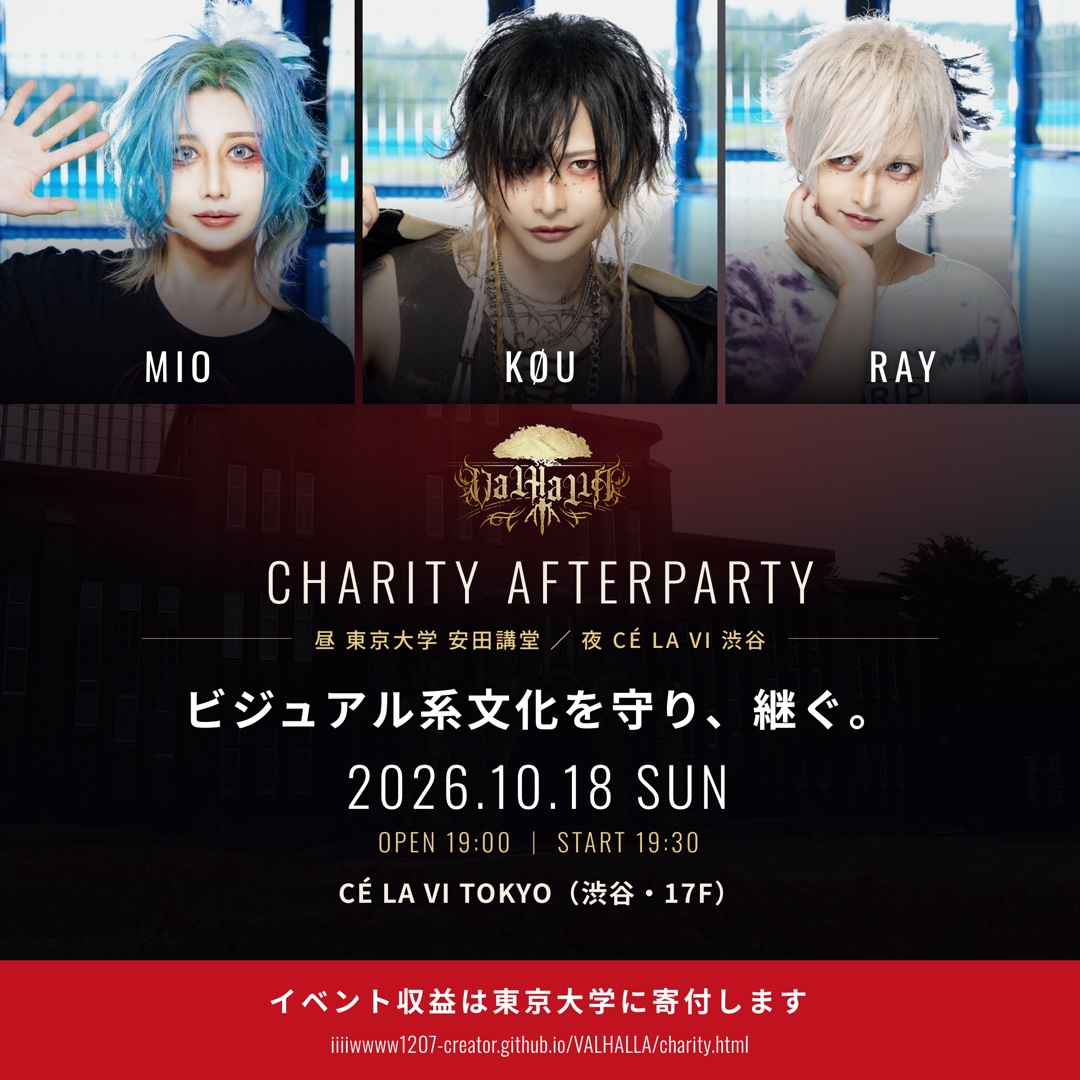
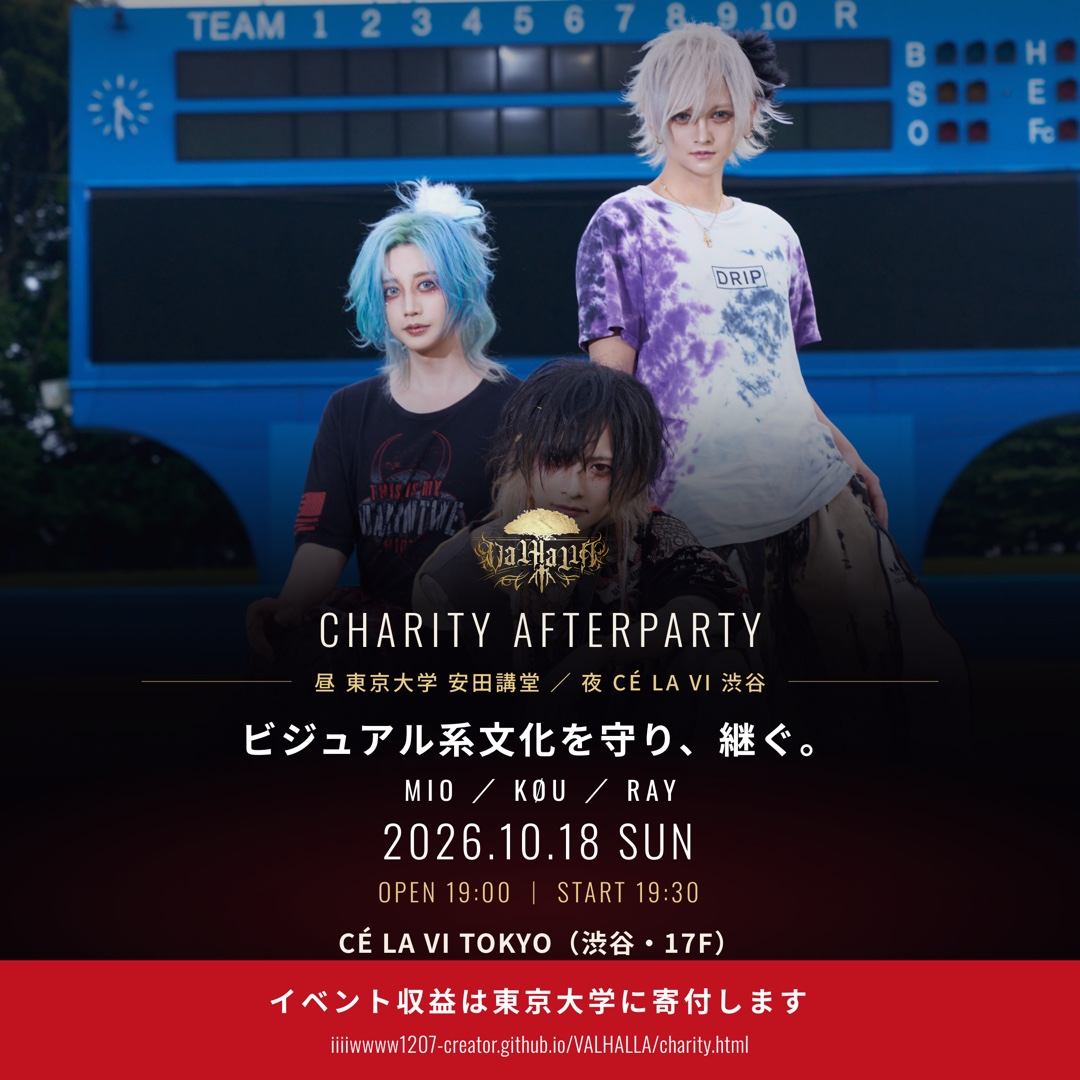
SNS1枚目のビジュアルを3人の集合写真フルブリードに変更
kazuma 指示。個別3枚の並び → group_field.jpg（3人の集合写真）へ。
kazuma が選択したファイルは既存 group_field.jpg とハッシュ一致を確認済み。

縦位置の写真なので横長の枠に収めると良さが死ぬため、
写真を全面に敷き、下半分にスクリムを掛けて文字を載せる構成に変更した。

- .cast（3枚並び）を廃止し、出演者名は「MIO ／ KØU ／ RAY」の1行に集約
- 文字ブロックは下寄せ（.head に margin-top:auto、.cta の auto を解除）
- 3人が縦に散った構図のため、サイズごとに background-position を個別調整
  feed45 = center 145% / square = center 88% / story = 150%幅・center 100%
  （3人の顔がロゴや見出しに隠れない位置を実測して決定）
- 文字量を圧縮して写真の見える範囲を確保

※ A4版はキャスト横一列（昼フライヤーの構図移植）のまま維持している。

diff --git a/flyer-sns.html b/flyer-sns.html
@@ -50,7 +50,26 @@
   .board.detail45 .veil,.board.detail11 .veil{
       background:linear-gradient(180deg,rgba(5,3,7,.72) 0%,rgba(5,3,7,.80) 26%,rgba(5,3,7,.90) 52%,rgba(5,3,7,.95) 100%)}
 
-  /* ── キャスト3枚（名前は写真の下部にオーバーレイして省スペース） ── */
+  /* ── 1枚目：集合写真をフルブリードで敷き、下半分にスクリムで文字を載せる ── */
+  .board.feed45 .bg,.board.square .bg,.board.story .bg{
+      background-image:url('assets/charity/group_field.jpg');
+      background-size:cover;opacity:1;filter:none}
+  .board.feed45 .bg{background-position:center 145%}
+  .board.square .bg{background-position:center 88%}
+  .board.story  .bg{background-size:150% auto;background-position:center 100%}
+  .board.feed45 .veil,.board.square .veil,.board.story .veil{
+      background:linear-gradient(180deg,
+        rgba(5,3,7,.36) 0%, rgba(5,3,7,.06) 18%, rgba(5,3,7,.22) 36%,
+        rgba(5,3,7,.66) 48%, rgba(5,3,7,.92) 56%, rgba(5,3,7,.985) 64%, #050307 74%)}
+  .board.feed45 .glow,.board.square .glow,.board.story .glow{
+      background:radial-gradient(ellipse 84% 22% at 50% 84%, rgba(176,20,28,.26), transparent 74%)}
+  /* 文字は下寄せ（写真の上側を空けて3人を見せる） */
+  .board.feed45 .head,.board.square .head,.board.story .head{margin-top:auto}
+  .board.feed45 .cta,.board.square .cta,.board.story .cta{margin-top:0}
+  .cast-line{font-family:'Oswald',sans-serif;font-weight:400;letter-spacing:.22em;
+    text-indent:.22em;color:#fff;line-height:1}
+
+  /* ── （2枚目では未使用）キャスト3枚並び ── */
   .cast{display:grid;grid-template-columns:repeat(3,1fr);gap:8px;flex:none}
   .cast .c{position:relative;overflow:hidden;background:#000}
   .cast img{position:absolute;left:50%;transform:translateX(-50%);
@@ -152,41 +171,39 @@
      サイズ別の寸法
      ========================================================== */
   /* ---- 1080x1350（Instagram フィード・Xタイムラインで最も大きく出る） ---- */
-  .feed45 .cast{height:522px}
-  .feed45 .cast .nm{font-size:44px;bottom:24px}
-  .feed45 .head{padding:22px 70px 0}
-  .feed45 .head .mark{width:230px;margin-bottom:20px}
-  .feed45 .head h1{font-size:60px}
-  .feed45 .head .ruled{margin-top:16px}
-  .feed45 .head .ruled span{font-size:24px}
-  .feed45 .tagline{margin-top:26px;font-size:50px}
-  .feed45 .when{margin-top:24px}
-  .feed45 .when .d{font-size:62px}
-  .feed45 .when .t{margin-top:14px;font-size:28px}
-  .feed45 .when .v{margin-top:14px;font-size:30px}
+  .feed45 .head{padding:0 70px 0}
+  .feed45 .head .mark{width:168px;margin-bottom:14px}
+  .feed45 .head h1{font-size:47px}
+  .feed45 .head .ruled{margin-top:13px}
+  .feed45 .head .ruled span{font-size:21px}
+  .feed45 .tagline{margin-top:18px;font-size:41px}
+  .feed45 .cast-line{margin-top:15px;font-size:29px}
+  .feed45 .when{margin-top:18px}
+  .feed45 .when .d{font-size:50px}
+  .feed45 .when .t{margin-top:11px;font-size:26px}
+  .feed45 .when .v{margin-top:11px;font-size:28px}
   .feed45 .price{margin:18px 60px 0;padding:15px 0}
   .feed45 .price .n{font-size:26px}
   .feed45 .price .p{margin-top:12px;font-size:44px}
   .feed45 .price .l{margin-top:10px;font-size:21px}
   .feed45 .price .feat .n::after{font-size:17px;padding:3px 8px}
-  .feed45 .donate{margin-top:22px;padding:0 70px}
-  .feed45 .donate b{font-size:31px}
-  .feed45 .donate span{margin-top:10px;font-size:22px}
+  .feed45 .donate{margin-top:16px;padding:0 70px}
+  .feed45 .donate b{font-size:28px}
+  .feed45 .donate span{margin-top:8px;font-size:21px;padding-bottom:16px}
   .feed45 .cta{padding:24px 40px 26px}
   .feed45 .cta b{font-size:32px}
   .feed45 .cta u{margin-top:10px;font-size:23px}
 
   /* ---- 1080x1080（グリッド・X） ---- */
-  .square .cast{height:404px}
-  .square .cast .nm{font-size:38px;bottom:20px}
-  .square .head{padding:18px 70px 0}
-  .square .head .mark{width:196px;margin-bottom:16px}
-  .square .head h1{font-size:52px}
+  .square .head{padding:0 70px 0}
+  .square .head .mark{width:150px;margin-bottom:12px}
+  .square .head h1{font-size:42px}
   .square .head .ruled{margin-top:16px}
   .square .head .ruled span{font-size:21px}
-  .square .tagline{margin-top:22px;font-size:44px}
-  .square .when{margin-top:20px}
-  .square .when .d{font-size:54px}
+  .square .tagline{margin-top:15px;font-size:37px}
+  .square .cast-line{margin-top:13px;font-size:26px}
+  .square .when{margin-top:15px}
+  .square .when .d{font-size:44px}
   .square .when .t{margin-top:11px;font-size:25px}
   .square .when .v{margin-top:11px;font-size:26px}
   .square .price{margin:14px 60px 0;padding:13px 0}
@@ -194,7 +211,7 @@
   .square .price .p{margin-top:9px;font-size:37px}
   .square .price .l{margin-top:8px;font-size:19px}
   .square .price .feat .n::after{font-size:15px;padding:2px 7px}
-  .square .donate{margin-top:18px;padding:0 60px}
+  .square .donate{margin-top:14px;padding:0 60px;padding-bottom:14px}
   .square .donate b{font-size:27px}
   .square .donate span{margin-top:9px;font-size:20px}
   .square .cta{padding:19px 40px 21px}
@@ -248,17 +265,15 @@
   /* ---- 1080x1920（ストーリー／リール）
          上下 240px は端末UIに隠れやすいのでセーフエリアを空ける ---- */
   .story{padding:120px 0 50px}
-  .story .bg{background-position:center 46%}
-  .story .cast{height:686px}
-  .story .cast .nm{font-size:52px;bottom:28px}
-  .story .head{padding:36px 80px 0}
-  .story .head .mark{width:290px;margin-bottom:28px}
-  .story .head h1{font-size:74px}
+  .story .head{padding:0 80px 0}
+  .story .head .mark{width:220px;margin-bottom:20px}
+  .story .head h1{font-size:60px}
   .story .head .ruled{margin-top:28px}
   .story .head .ruled span{font-size:27px}
-  .story .tagline{margin-top:30px;font-size:54px}
-  .story .when{margin-top:28px}
-  .story .when .d{font-size:84px}
+  .story .tagline{margin-top:24px;font-size:48px}
+  .story .cast-line{margin-top:18px;font-size:33px}
+  .story .when{margin-top:22px}
+  .story .when .d{font-size:66px}
   .story .when .t{margin-top:18px;font-size:33px}
   .story .when .v{margin-top:18px;font-size:35px}
   .story .price{margin:28px 70px 0;padding:22px 0}
@@ -266,7 +281,7 @@
   .story .price .p{margin-top:14px;font-size:52px}
   .story .price .l{margin-top:12px;font-size:24px}
   .story .price .feat .n::after{font-size:19px;padding:4px 10px}
-  .story .donate{margin-top:24px;padding:0 80px}
+  .story .donate{margin-top:20px;padding:0 80px;padding-bottom:18px}
   .story .donate b{font-size:38px}
   .story .donate span{margin-top:14px;font-size:26px}
   .story .cta{margin-bottom:0;padding:32px 40px 34px}
@@ -279,16 +294,12 @@
 <!-- ============ 1080 x 1350 ／ Instagram フィード・X ============ -->
 <section class="board feed45">
   <div class="bg"></div><div class="veil"></div><div class="glow"></div>
-  <div class="cast">
-    <div class="c"><img src="assets/charity/mio.jpg" alt="MIO"><div class="nm">MIO</div></div>
-    <div class="c"><img src="assets/charity/kou.jpg" alt="KØU"><div class="nm">KØU</div></div>
-    <div class="c"><img src="assets/charity/rei.jpg" alt="RAY"><div class="nm">RAY</div></div>
-  </div>
   <div class="head">
     <img class="mark" src="assets/charity/logo_gold.webp" alt="VALHALLA">
     <h1>Charity Afterparty</h1>
     <div class="ruled"><span class="jp">昼 東京大学 安田講堂 ／ 夜 CÉ LA VI 渋谷</span></div>
     <p class="tagline">ビジュアル系文化を守り、継ぐ。</p>
+    <p class="cast-line">MIO ／ KØU ／ RAY</p>
   </div>
   <div class="when">
     <div class="d">2026.10.18 SUN</div>
@@ -308,16 +319,12 @@
 <!-- ============ 1080 x 1080 ／ グリッド・X ============ -->
 <section class="board square">
   <div class="bg"></div><div class="veil"></div><div class="glow"></div>
-  <div class="cast">
-    <div class="c"><img src="assets/charity/mio.jpg" alt="MIO"><div class="nm">MIO</div></div>
-    <div class="c"><img src="assets/charity/kou.jpg" alt="KØU"><div class="nm">KØU</div></div>
-    <div class="c"><img src="assets/charity/rei.jpg" alt="RAY"><div class="nm">RAY</div></div>
-  </div>
   <div class="head">
     <img class="mark" src="assets/charity/logo_gold.webp" alt="VALHALLA">
     <h1>Charity Afterparty</h1>
     <div class="ruled"><span class="jp">昼 東京大学 安田講堂 ／ 夜 CÉ LA VI 渋谷</span></div>
     <p class="tagline">ビジュアル系文化を守り、継ぐ。</p>
+    <p class="cast-line">MIO ／ KØU ／ RAY</p>
   </div>
   <div class="when">
     <div class="d">2026.10.18 SUN</div>
@@ -333,16 +340,12 @@
 <!-- ============ 1080 x 1920 ／ ストーリー・リール ============ -->
 <section class="board story">
   <div class="bg"></div><div class="veil"></div><div class="glow"></div>
-  <div class="cast">
-    <div class="c"><img src="assets/charity/mio.jpg" alt="MIO"><div class="nm">MIO</div></div>
-    <div class="c"><img src="assets/charity/kou.jpg" alt="KØU"><div class="nm">KØU</div></div>
-    <div class="c"><img src="assets/charity/rei.jpg" alt="RAY"><div class="nm">RAY</div></div>
-  </div>
   <div class="head">
     <img class="mark" src="assets/charity/logo_gold.webp" alt="VALHALLA">
     <h1>Charity Afterparty</h1>
     <div class="ruled"><span class="jp">昼 東京大学 安田講堂 ／ 夜 CÉ LA VI 渋谷</span></div>
     <p class="tagline">ビジュアル系文化を守り、継ぐ。</p>
+    <p class="cast-line">MIO ／ KØU ／ RAY</p>
   </div>
   <div class="when">
     <div class="d">2026.10.18 SUN</div>

diff --git a/docs/celavi-afterparty.md b/docs/celavi-afterparty.md
@@ -86,6 +86,10 @@
     - `assets/charity/flyer/sns/afterparty_story_1080x1920.jpg` … ストーリー／リール（上下220pxはUIに隠れる前提のセーフエリア確保済み）
     - **SNSフライヤーは必ず2枚組で出す**（kazuma 指示 2026-08-27）
       - 1枚目＝掴み。**金額は載せない**（2枚目とダブるため）。顔・イベント名・タグライン・日時会場・寄付まで
+      - 1枚目のビジュアルは **`group_field.jpg`（3人の集合写真）をフルブリード**（kazuma 指示 2026-08-27）。
+        個別3枚の並びから変更。縦位置写真なので写真を全面に敷き、下半分にスクリムを掛けて文字を載せる。
+        3人が縦に散った構図のため、サイズごとに background-position を個別調整して
+        3人の顔が文字に隠れないようにしている（feed45=145% / square=88% / story=150%幅・100%）
       - 2枚目＝席の中身と価格の理由。ここで初めて金額を出す
       - 2枚目の背景は安田講堂の**内観を「引き」で全景**（寄せると何の建物か分からなくなるため）
       - ※ A4版は単票で完結させる必要があるので、A4には金額を残している
